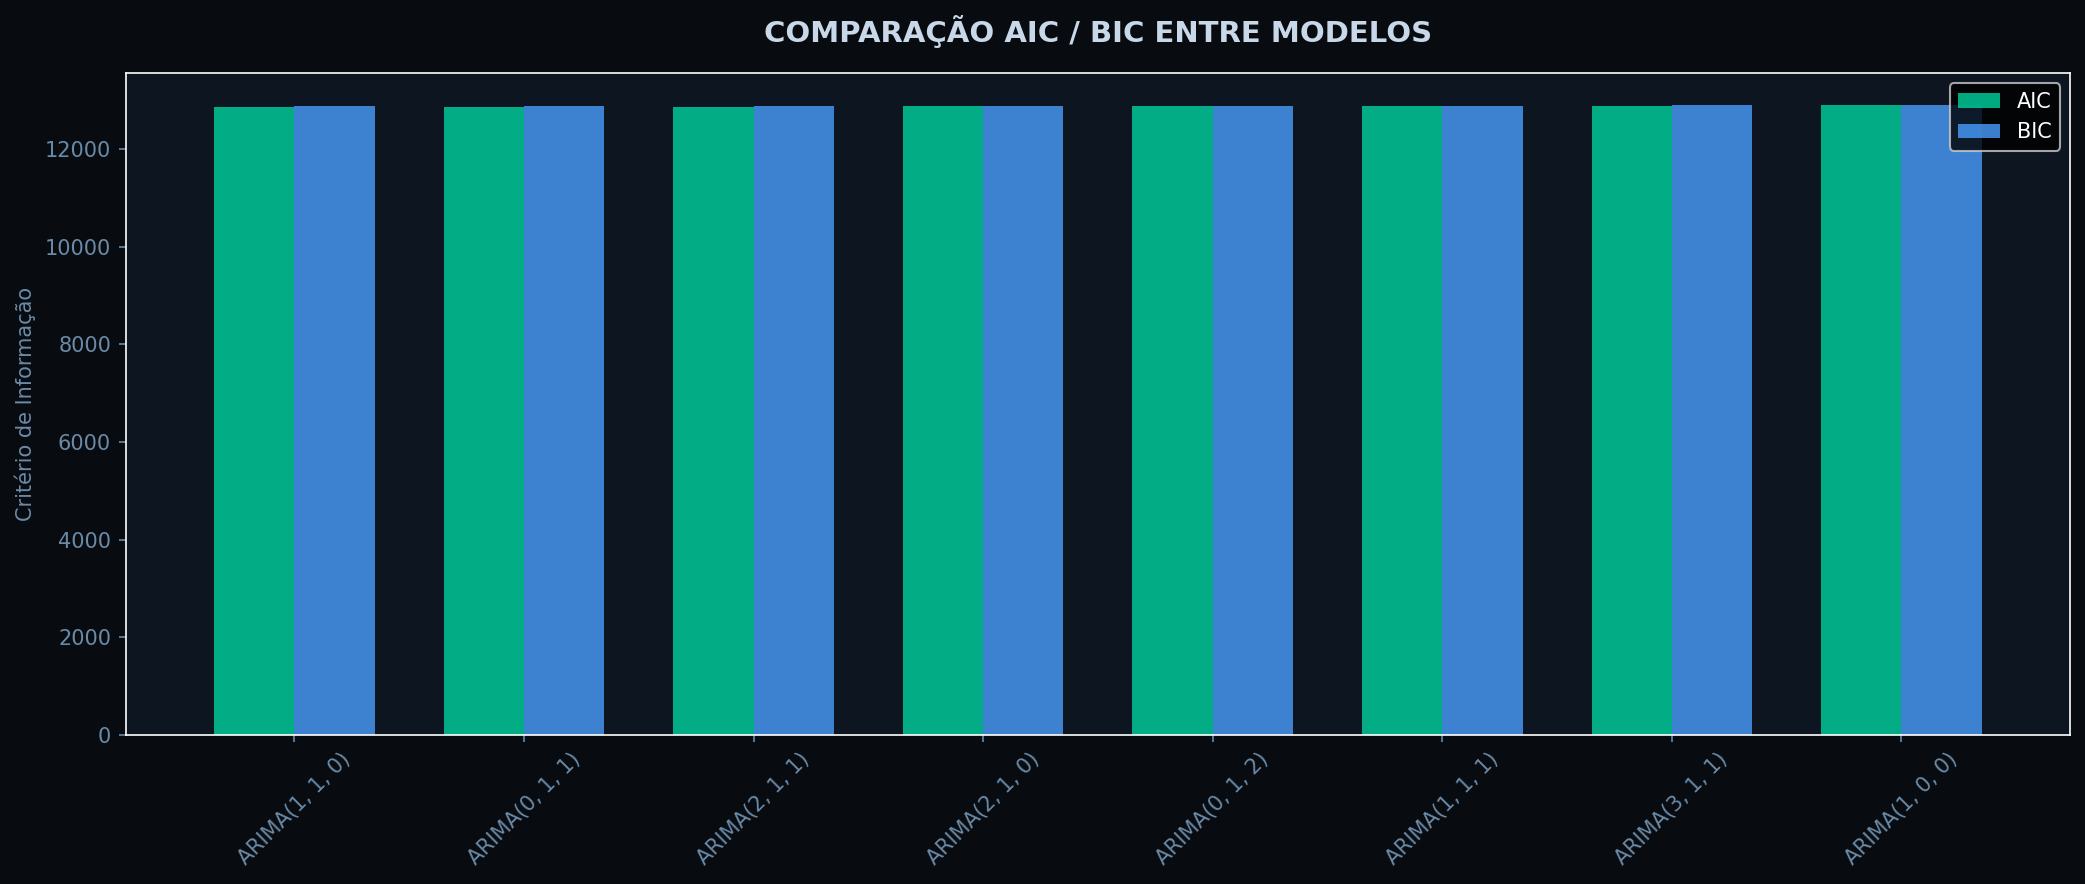
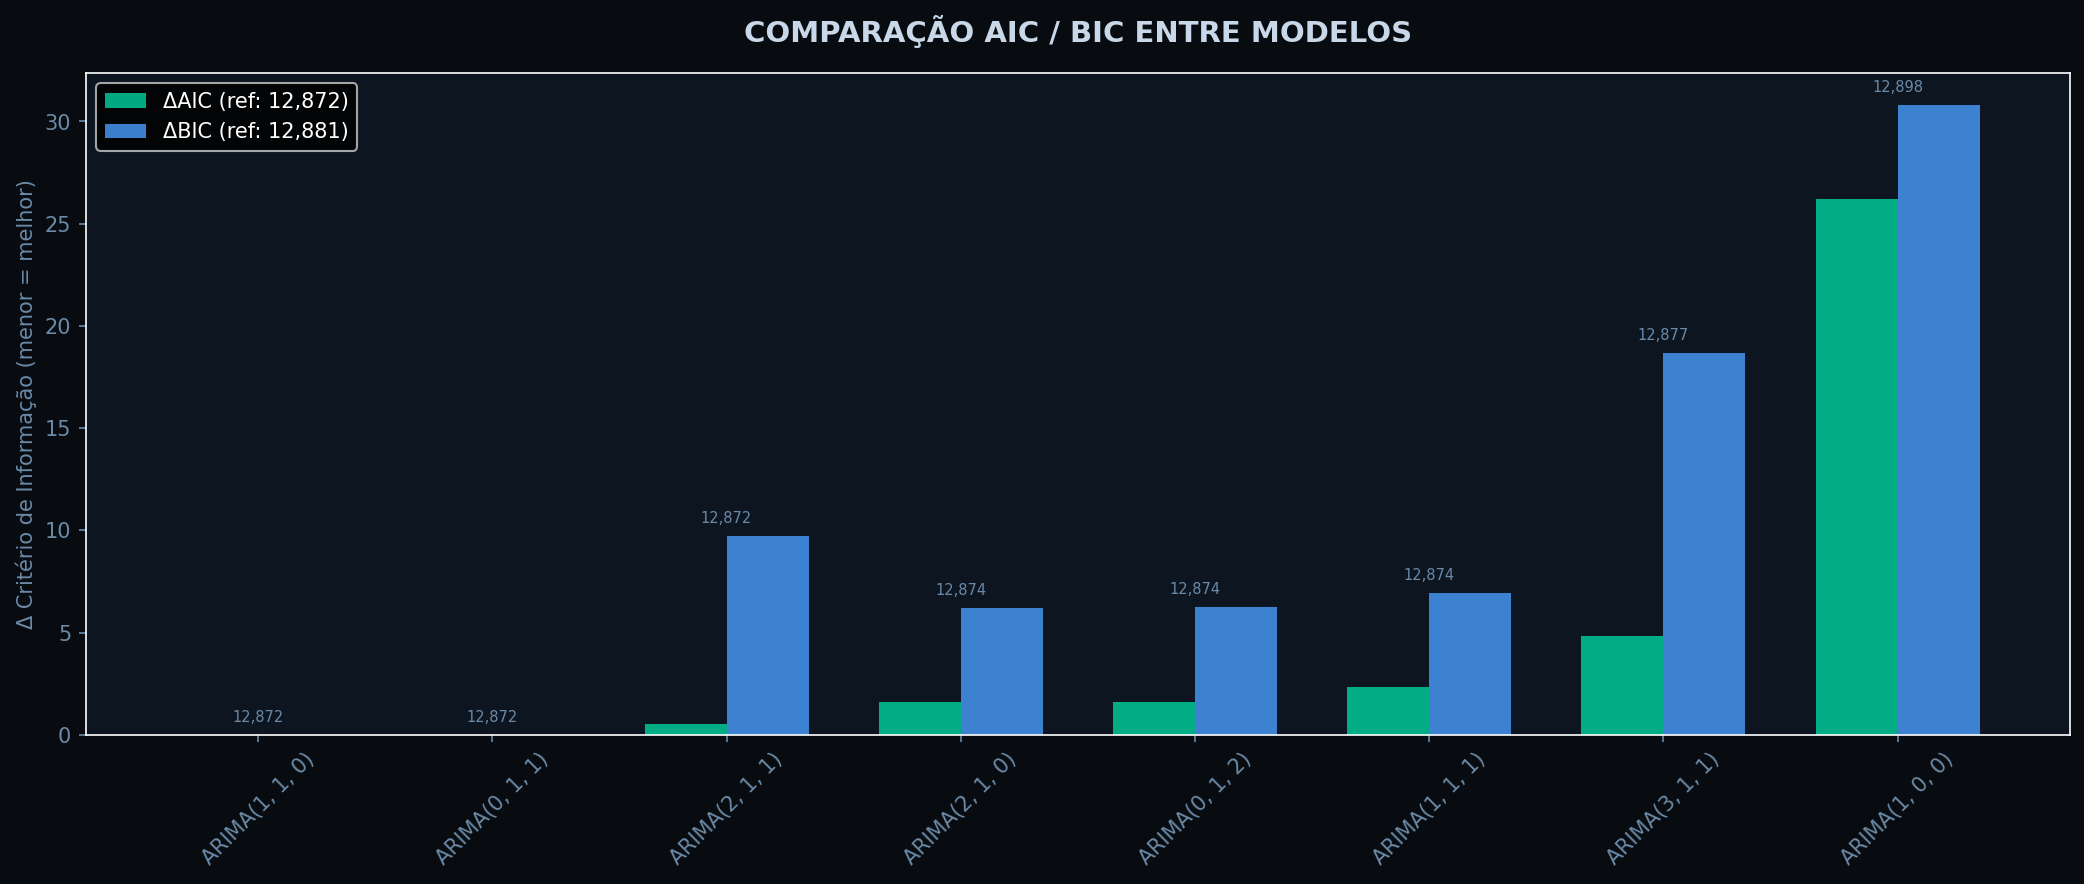
fix: corrigir gráficos dos módulos 04 e 05
- Módulo 04: substituir plot_acf/plot_pacf por barras manuais (fix renderização sólida)
- Módulo 05: usar ΔAIC/ΔBIC relativo para visualizar diferenças entre modelos
- Módulo 05: definir frequência da série (Business Days) para datas corretas na previsão
- Módulo 05: substituir plot_acf dos resíduos por barras manuais
- Regenerar todos os gráficos dos módulos 04 e 05

diff --git a/src/modulo05_arima_sarima.py b/src/modulo05_arima_sarima.py
@@ -11,7 +11,7 @@ import pandas as pd
 import matplotlib.pyplot as plt
 from statsmodels.tsa.arima.model import ARIMA
 from statsmodels.tsa.stattools import adfuller
-from statsmodels.graphics.tsaplots import plot_acf, plot_pacf
+from statsmodels.tsa.stattools import acf as calc_acf
 from statsmodels.stats.diagnostic import acorr_ljungbox
 import warnings
 warnings.filterwarnings('ignore')
@@ -94,13 +94,27 @@ def ajustar_e_prever(serie, ordem=(2, 1, 1), n_forecast=30):
     """Ajusta ARIMA e faz previsão."""
     print(f"\n📈 Ajustando ARIMA{ordem} e prevendo {n_forecast} passos...")
 
-    model = ARIMA(serie, order=ordem)
+    # Garantir que a série tem frequência definida para previsão correta
+    serie_freq = serie.copy()
+    if serie_freq.index.freq is None:
+        serie_freq = serie_freq.asfreq('B')  # Business days
+        serie_freq = serie_freq.ffill()
+
+    model = ARIMA(serie_freq, order=ordem)
     result = model.fit()
 
     # Previsão
     forecast_result = result.get_forecast(steps=n_forecast)
     forecast = forecast_result.predicted_mean
     conf_int = forecast_result.conf_int()
+
+    # Garantir que o índice da previsão são datas válidas
+    if not isinstance(forecast.index, pd.DatetimeIndex):
+        last_date = serie.index[-1]
+        future_dates = pd.bdate_range(start=last_date + pd.Timedelta(days=1),
+                                       periods=n_forecast)
+        forecast.index = future_dates
+        conf_int.index = future_dates
 
     # Resíduos
     residuos = result.resid
@@ -179,10 +193,17 @@ def grafico_diagnostico_residuos(residuos, ordem):
     ax2.legend(fontsize=9)
     ax2.tick_params(colors=COLORS['dim'])
 
-    # 3. ACF dos resíduos
+    # 3. ACF dos resíduos (manual para evitar bug visual do plot_acf)
     ax3 = axes[1][0]
     ax3.set_facecolor(COLORS['surface'])
-    plot_acf(residuos, lags=30, ax=ax3, color=COLORS['amber'])
+    nlags = 30
+    acf_vals = calc_acf(residuos, nlags=nlags)
+    conf = 1.96 / np.sqrt(len(residuos))
+    ax3.bar(range(nlags + 1), acf_vals[:nlags + 1], width=0.3,
+            color=COLORS['amber'], alpha=0.8, edgecolor='none')
+    ax3.axhline(0, color=COLORS['dim'], linewidth=0.5)
+    ax3.axhline(conf, color=COLORS['red'], linestyle='--', alpha=0.6)
+    ax3.axhline(-conf, color=COLORS['red'], linestyle='--', alpha=0.6)
     ax3.set_title('ACF dos Resíduos', fontsize=11, color=COLORS['amber'])
     ax3.tick_params(colors=COLORS['dim'])
 
@@ -204,23 +225,35 @@ def grafico_diagnostico_residuos(residuos, ordem):
 
 
 def grafico_comparacao_aic(df_res):
-    """Comparação visual de AIC/BIC entre modelos."""
+    """Comparação visual de AIC/BIC entre modelos (delta relativo ao melhor)."""
     fig, ax = plt.subplots(figsize=(14, 6))
     fig.patch.set_facecolor(COLORS['bg'])
     ax.set_facecolor(COLORS['surface'])
 
-    df_plot = df_res.head(8).sort_values('AIC')
+    df_plot = df_res.head(8).sort_values('AIC').copy()
     x = np.arange(len(df_plot))
     width = 0.35
 
-    ax.bar(x - width/2, df_plot['AIC'], width, color=COLORS['green'],
-           alpha=0.8, label='AIC')
-    ax.bar(x + width/2, df_plot['BIC'], width, color=COLORS['blue'],
-           alpha=0.8, label='BIC')
+    # Usar delta (diferença em relação ao melhor) para visualização clara
+    aic_min = df_plot['AIC'].min()
+    bic_min = df_plot['BIC'].min()
+    delta_aic = df_plot['AIC'] - aic_min
+    delta_bic = df_plot['BIC'] - bic_min
+
+    ax.bar(x - width/2, delta_aic, width, color=COLORS['green'],
+           alpha=0.8, label=f'ΔAIC (ref: {aic_min:,.0f})')
+    ax.bar(x + width/2, delta_bic, width, color=COLORS['blue'],
+           alpha=0.8, label=f'ΔBIC (ref: {bic_min:,.0f})')
+
+    # Adicionar valores absolutos sobre as barras
+    for i, (a, b) in enumerate(zip(df_plot['AIC'], df_plot['BIC'])):
+        max_delta = max(delta_aic.iloc[i], delta_bic.iloc[i])
+        ax.text(i, max_delta + 0.5, f'{a:,.0f}', ha='center', va='bottom',
+                fontsize=7, color=COLORS['dim'])
 
     ax.set_xticks(x)
     ax.set_xticklabels(df_plot['Ordem'], color=COLORS['text'], rotation=45)
-    ax.set_ylabel('Critério de Informação', color=COLORS['dim'])
+    ax.set_ylabel('Δ Critério de Informação (menor = melhor)', color=COLORS['dim'])
     ax.set_title('COMPARAÇÃO AIC / BIC ENTRE MODELOS',
                  fontsize=14, color=COLORS['text'], fontweight='bold', pad=15)
     ax.legend(fontsize=10)

diff --git a/src/modulo04_series_temporais.py b/src/modulo04_series_temporais.py
@@ -155,39 +155,51 @@ def grafico_decomposicao(df):
     print("   ✔ graficos/m04_decomposicao.png")
 
 
+def _plot_acf_manual(ax, valores, nlags, cor, titulo):
+    """Plota ACF/PACF manualmente com barras estilizadas."""
+    ax.set_facecolor(COLORS['surface'])
+    n = len(valores)
+    conf = 1.96 / np.sqrt(n)
+
+    lags_range = range(len(valores[:nlags+1]))
+    ax.bar(lags_range, valores[:nlags+1], width=0.3, color=cor, alpha=0.8, edgecolor='none')
+    ax.axhline(0, color=COLORS['dim'], linewidth=0.5)
+    ax.axhline(conf, color=COLORS['red'], linestyle='--', alpha=0.6, linewidth=1)
+    ax.axhline(-conf, color=COLORS['red'], linestyle='--', alpha=0.6, linewidth=1)
+    ax.fill_between(lags_range, -conf, conf, alpha=0.05, color=COLORS['red'])
+    ax.set_title(titulo, fontsize=11, color=cor)
+    ax.set_ylim(-0.15, 0.15) if abs(valores[1:nlags+1]).max() < 0.15 else None
+    ax.tick_params(colors=COLORS['dim'])
+
+
 def grafico_acf_pacf(retornos):
     """ACF e PACF dos retornos e retornos ao quadrado."""
+    nlags = 40
+
+    acf_ret = acf(retornos, nlags=nlags)
+    pacf_ret = pacf(retornos, nlags=nlags)
+    acf_ret2 = acf(retornos ** 2, nlags=nlags)
+    pacf_ret2 = pacf(retornos ** 2, nlags=nlags)
+
     fig, axes = plt.subplots(2, 2, figsize=(16, 10))
     fig.patch.set_facecolor(COLORS['bg'])
     fig.suptitle('ACF & PACF · RETORNOS E RETORNOS²',
                  fontsize=14, color=COLORS['text'], fontweight='bold', y=1.02)
 
-    titulos = ['ACF — Retornos', 'PACF — Retornos',
-               'ACF — Retornos²', 'PACF — Retornos²']
-    dados = [retornos, retornos, retornos ** 2, retornos ** 2]
-    funcs = [plot_acf, plot_pacf, plot_acf, plot_pacf]
-    cores = [COLORS['green'], COLORS['green'], COLORS['amber'], COLORS['amber']]
+    _plot_acf_manual(axes[0][0], acf_ret, nlags, COLORS['green'], 'ACF — Retornos')
+    _plot_acf_manual(axes[0][1], pacf_ret, nlags, COLORS['green'], 'PACF — Retornos')
+    _plot_acf_manual(axes[1][0], acf_ret2, nlags, COLORS['amber'], 'ACF — Retornos²')
+    _plot_acf_manual(axes[1][1], pacf_ret2, nlags, COLORS['amber'], 'PACF — Retornos²')
 
-    for idx, (ax, titulo, serie, func, cor) in enumerate(
-            zip(axes.flat, titulos, dados, funcs, cores)):
-        ax.set_facecolor(COLORS['surface'])
-        func(serie, lags=40, ax=ax, color=cor, alpha=0.8)
-        ax.set_title(titulo, fontsize=11, color=cor)
-        ax.tick_params(colors=COLORS['dim'])
-        # Estilizar barras
-        for item in ax.get_children():
-            if hasattr(item, 'set_color') and hasattr(item, 'set_linewidth'):
-                try:
-                    item.set_color(cor)
-                except Exception:
-                    pass
+    # Ajustar ylim dos retornos² para ver a persistência
+    for ax in axes[1]:
+        ax.set_ylim(-0.1, max(0.3, acf_ret2[1:].max() * 1.2))
 
     plt.tight_layout()
     plt.savefig('../graficos/m04_acf_pacf.png', **SAVE)
     plt.close()
     print("   ✔ graficos/m04_acf_pacf.png")
 
-    # Info sobre ACF de retornos² (indica efeitos ARCH)
     print("\n   💡 ACF de retornos² significativa → indica volatility clustering (efeito ARCH)")
 
 
